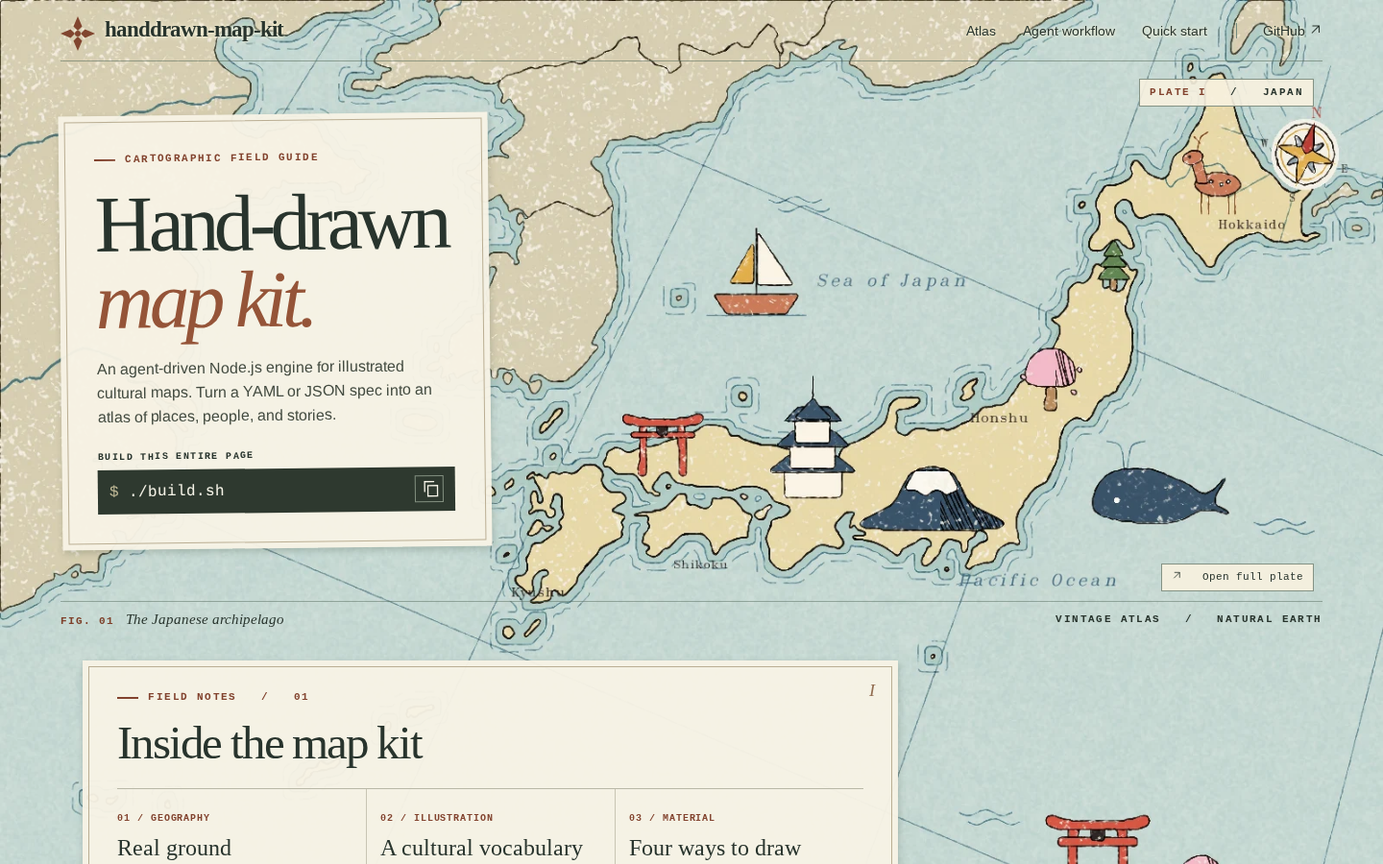
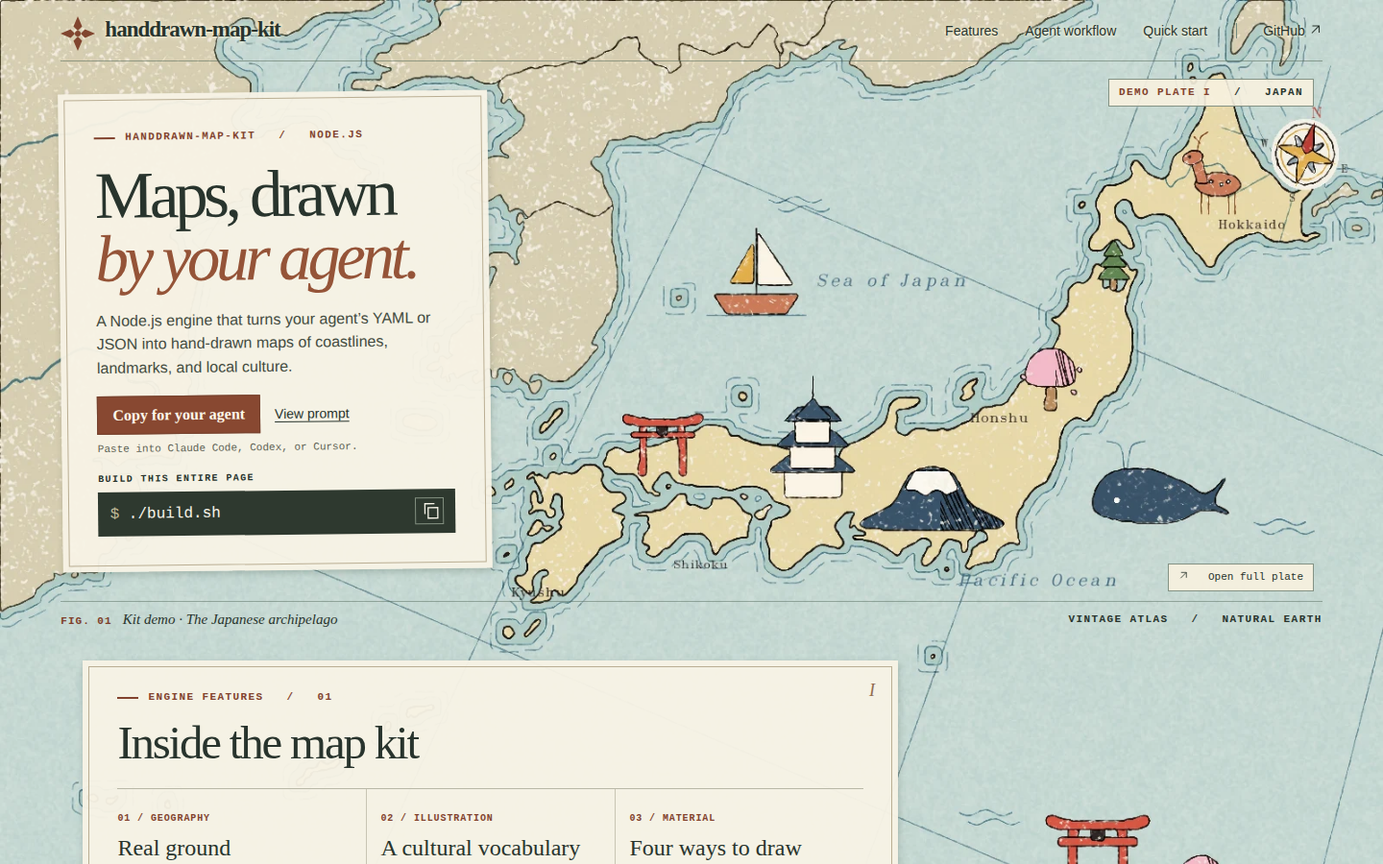
mapkit-official/codex-6.2: sell the kit, Copy for your agent prompt

diff --git a/sites/mapkit-official/codex-6.2/site/index.html b/sites/mapkit-official/codex-6.2/site/index.html
@@ -1,13 +1,18 @@
-<!doctype html><html lang="en"><head><meta charset="utf-8"><meta name="viewport" content="width=device-width,initial-scale=1"><title>Handdrawn Map Kit — An illustrated field atlas</title><link rel="stylesheet" href="fonts.css"><link rel="stylesheet" href="style.css"></head><body id="top"><div class="sheet">
-<header><a class="brand" href="#top"><b class="mark" aria-hidden="true"><svg class="icon " aria-hidden="true" viewBox="0 0 24 24"><path fill="currentColor" d="m12 0 3 7-3 3-3-3zm0 24-3-7 3-3 3 3zM0 12l7-3 3 3-3 3zm24 0-7 3-3-3 3-3z"/><circle cx="12" cy="12" r="2" fill="currentColor"/></svg></b> handdrawn-map-kit</a><nav><a href="#atlas">Atlas</a><a href="#workflow">Agent workflow</a><a href="#start">Quick start</a></nav><a class="git" href="https://github.com/wangreng/handdrawn-map-kit">GitHub <svg class="icon " aria-hidden="true" viewBox="0 0 24 24"><path d="M5 18 18 5M6 5h12v12" fill="none" stroke="currentColor" stroke-width="1.8"/></svg></a></header>
+<!doctype html><html lang="en"><head><meta charset="utf-8"><meta name="viewport" content="width=device-width,initial-scale=1"><title>handdrawn-map-kit — An agent-driven map engine</title><link rel="stylesheet" href="fonts.css"><link rel="stylesheet" href="style.css"></head><body id="top"><div class="sheet">
+<header><a class="brand" href="#top"><b class="mark" aria-hidden="true"><svg class="icon " aria-hidden="true" viewBox="0 0 24 24"><path fill="currentColor" d="m12 0 3 7-3 3-3-3zm0 24-3-7 3-3 3 3zM0 12l7-3 3 3-3 3zm24 0-7 3-3-3 3-3z"/><circle cx="12" cy="12" r="2" fill="currentColor"/></svg></b> handdrawn-map-kit</a><nav><a href="#atlas">Features</a><a href="#workflow">Agent workflow</a><a href="#start">Quick start</a></nav><a class="git" href="https://github.com/wangreng/handdrawn-map-kit">GitHub <svg class="icon " aria-hidden="true" viewBox="0 0 24 24"><path d="M5 18 18 5M6 5h12v12" fill="none" stroke="currentColor" stroke-width="1.8"/></svg></a></header>
 <main><section class="hero" aria-label="Introduction and illustrated map of Japan">
-<div class="plate"><span>PLATE I</span> &nbsp; / &nbsp; JAPAN</div>
-<article class="intro"><div class="eyebrow"><i></i> CARTOGRAPHIC FIELD GUIDE</div><h1>Hand-drawn<br><em>map kit.</em></h1>
-<p>An agent-driven Node.js engine for illustrated cultural maps. Turn a YAML or JSON spec into an atlas of places, people, and stories.</p>
-<div class="commandlabel">BUILD THIS ENTIRE PAGE</div><div class="terminal"><code><span aria-hidden="true">$ </span><b>./build.sh</b></code><button id="copy" aria-label="Copy build command" title="Copy command"><svg class="icon copy" aria-hidden="true" viewBox="0 0 24 24"><path d="M8 8h12v13H8zM4 16V3h12" fill="none" stroke="currentColor" stroke-width="1.6"/></svg><svg class="icon checked" aria-hidden="true" viewBox="0 0 24 24"><path d="m4 12 5 5L20 6" fill="none" stroke="currentColor" stroke-width="2"/></svg></button></div></article>
+<div class="plate"><span>DEMO PLATE I</span> &nbsp; / &nbsp; JAPAN</div>
+<article class="intro"><div class="eyebrow"><i></i> HANDDRAWN-MAP-KIT &nbsp; / &nbsp; NODE.JS</div><h1>Maps, drawn<br><em>by your agent.</em></h1>
+<p>A Node.js engine that turns your agent’s YAML or JSON into hand-drawn maps of coastlines, landmarks, and local culture.</p>
+<div class="agent-tools">
+<button id="copy-agent" type="button" data-copy="#agent-text">Copy for your agent</button>
+<button id="preview-agent" type="button">View prompt</button>
+<p>Paste into Claude Code, Codex, or Cursor.</p>
+</div>
+<div class="commandlabel">BUILD THIS ENTIRE PAGE</div><div class="terminal"><code><span aria-hidden="true">$ </span><b>./build.sh</b></code><button data-copy=".terminal b" id="copy" aria-label="Copy build command" title="Copy command"><svg class="icon copy" aria-hidden="true" viewBox="0 0 24 24"><path d="M8 8h12v13H8zM4 16V3h12" fill="none" stroke="currentColor" stroke-width="1.6"/></svg><svg class="icon checked" aria-hidden="true" viewBox="0 0 24 24"><path d="m4 12 5 5L20 6" fill="none" stroke="currentColor" stroke-width="2"/></svg></button></div></article>
 <a class="enlarge" href="japan.webp" target="_blank"><svg class="icon " aria-hidden="true" viewBox="0 0 24 24"><path d="M5 18 18 5M6 5h12v12" fill="none" stroke="currentColor" stroke-width="1.8"/></svg> &nbsp; Open full plate</a></section>
-<div class="caption"><span><b>FIG. 01</b> &nbsp; The Japanese archipelago</span><span>VINTAGE ATLAS &nbsp; / &nbsp; NATURAL EARTH</span></div>
-<section class="stop" id="atlas"><div class="paper"><div class="folio">I</div><div class="eyebrow"><i></i> FIELD NOTES &nbsp; / &nbsp; 01</div><h2>Inside the map kit</h2><div class="features">
+<div class="caption"><span><b>FIG. 01</b> &nbsp; Kit demo · The Japanese archipelago</span><span>VINTAGE ATLAS &nbsp; / &nbsp; NATURAL EARTH</span></div>
+<section class="stop" id="atlas"><div class="paper"><div class="folio">I</div><div class="eyebrow"><i></i> ENGINE FEATURES &nbsp; / &nbsp; 01</div><h2>Inside the map kit</h2><div class="features">
 <article><small>01 / GEOGRAPHY</small><h3>Real ground</h3><p>Build on Natural Earth coastlines, provinces, rivers, lakes, cities, and peaks. Reference places by name.</p></article>
 <article><small>02 / ILLUSTRATION</small><h3>A cultural vocabulary</h3><p>Place 65 built-in illustrations or draw a local landmark with inline SVG. Add bilingual labels and curved lettering.</p></article>
 <article><small>03 / MATERIAL</small><h3>Four ways to draw</h3><p>Render the same sheet as a vintage atlas, a cyanotype blueprint, a nocturne, or an ink-wash scroll.</p></article></div></div></section>
@@ -17,8 +22,65 @@ npx handdrawn-map inspect elements
 npx handdrawn-map render ../specs/japan.yaml &#92;
   --fast -o ../japan.png</code></pre></div></section>
 </main><footer><a class="brand" href="#top"><svg class="icon " aria-hidden="true" viewBox="0 0 24 24"><path fill="currentColor" d="m12 0 3 7-3 3-3-3zm0 24-3-7 3-3 3 3zM0 12l7-3 3 3-3 3zm24 0-7 3-3-3 3-3z"/><circle cx="12" cy="12" r="2" fill="currentColor"/></svg> &nbsp; handdrawn-map-kit</a><span>MIT LICENSE &nbsp; / &nbsp; NATURAL EARTH DATA</span></footer></div>
+<dialog id="agent-dialog" aria-labelledby="prompt-title"><div class="dialog-bar"><h2 id="prompt-title">Your first map</h2><button id="close-prompt" type="button">Close</button></div><pre id="agent-text">Draw me an illustrated map of Italy with handdrawn-map-kit.
+
+Run git clone https://github.com/wangreng/handdrawn-map-kit, then cd handdrawn-map-kit and run npm ci.
+
+Read SKILL.md. Create the parent directory and copy SKILL.md to the path for your agent:
+- Claude Code: ~/.claude/skills/handdrawn-map-kit/SKILL.md
+- Codex: ~/.agents/skills/handdrawn-map-kit/SKILL.md
+- Cursor: .cursor/skills/handdrawn-map-kit/SKILL.md in the active project
+
+From the cloned repo, run:
+node bin/cli.js render examples/specs/italy.yaml --fast --auto-layout -o out/italy.png --diagnostics out/italy.diag.json
+
+Show me the map and summarize any layout collisions or out-of-bounds items.
+</pre><button type="button" data-copy="#agent-text">Copy for your agent</button></dialog>
+<span id="copy-status" class="sr-only" role="status"></span>
 <script>const pocket = matchMedia('(max-width:700px)');
 function updatePlate() { document.querySelector('.enlarge').href = pocket.matches ? 'japan-pocket.webp' : 'japan.webp'; }
 updatePlate();
 pocket.addEventListener('change', updatePlate);
-document.querySelector('#copy').onclick=async function(){try{await navigator.clipboard.writeText('./build.sh');this.dataset.copied='';this.setAttribute('aria-label','Command copied');setTimeout(()=>{delete this.dataset.copied;this.setAttribute('aria-label','Copy build command')},1600)}catch{const r=document.createRange();r.selectNodeContents(document.querySelector('.terminal b'));getSelection().removeAllRanges();getSelection().addRange(r)}};</script></body></html>
+const dialog = document.querySelector('#agent-dialog');
+document.querySelector('#preview-agent').onclick = () => dialog.showModal();
+document.querySelector('#close-prompt').onclick = () => dialog.close();
+async function copyText(text) {
+  try {
+    await navigator.clipboard.writeText(text);
+    return true;
+  } catch {
+    const field = document.createElement('textarea');
+    field.value = text;
+    field.style.cssText = 'position:fixed;left:0;top:0;opacity:0';
+    (dialog.open ? dialog : document.body).append(field);
+    const previous = document.activeElement;
+    field.select();
+    const copied = document.execCommand('copy');
+    field.remove();
+    previous.focus();
+    return copied;
+  }
+}
+for (const button of document.querySelectorAll('[data-copy]')) {
+  button.onclick = async () => {
+    const text = document.querySelector(button.dataset.copy).textContent;
+    if (await copyText(text)) {
+      button.dataset.copied = '';
+      document.querySelector('#copy-status').textContent = button.id === 'copy' ? 'Build command copied.' : 'Agent prompt copied.';
+      if (button.id !== 'copy') button.textContent = 'Prompt copied';
+      clearTimeout(button.resetTimer);
+      button.resetTimer = setTimeout(() => {
+        delete button.dataset.copied;
+        if (button.id !== 'copy') button.textContent = 'Copy for your agent';
+      }, 1800);
+    } else {
+      if (button.id !== 'copy' && !dialog.open) dialog.showModal();
+      const range = document.createRange();
+      range.selectNodeContents(document.querySelector(button.dataset.copy));
+      getSelection().removeAllRanges();
+      getSelection().addRange(range);
+      document.querySelector('#copy-status').textContent = 'Text selected for manual copying.';
+    }
+  };
+}
+</script></body></html>

diff --git a/sites/mapkit-official/codex-6.2/src/index.html b/sites/mapkit-official/codex-6.2/src/index.html
@@ -1,13 +1,18 @@
-<!doctype html><html lang="en"><head><meta charset="utf-8"><meta name="viewport" content="width=device-width,initial-scale=1"><title>Handdrawn Map Kit — An illustrated field atlas</title><link rel="stylesheet" href="fonts.css"><link rel="stylesheet" href="style.css"></head><body id="top"><div class="sheet">
-<header><a class="brand" href="#top"><b class="mark" aria-hidden="true"><svg class="icon " aria-hidden="true" viewBox="0 0 24 24"><path fill="currentColor" d="m12 0 3 7-3 3-3-3zm0 24-3-7 3-3 3 3zM0 12l7-3 3 3-3 3zm24 0-7 3-3-3 3-3z"/><circle cx="12" cy="12" r="2" fill="currentColor"/></svg></b> handdrawn-map-kit</a><nav><a href="#atlas">Atlas</a><a href="#workflow">Agent workflow</a><a href="#start">Quick start</a></nav><a class="git" href="https://github.com/wangreng/handdrawn-map-kit">GitHub <svg class="icon " aria-hidden="true" viewBox="0 0 24 24"><path d="M5 18 18 5M6 5h12v12" fill="none" stroke="currentColor" stroke-width="1.8"/></svg></a></header>
+<!doctype html><html lang="en"><head><meta charset="utf-8"><meta name="viewport" content="width=device-width,initial-scale=1"><title>handdrawn-map-kit — An agent-driven map engine</title><link rel="stylesheet" href="fonts.css"><link rel="stylesheet" href="style.css"></head><body id="top"><div class="sheet">
+<header><a class="brand" href="#top"><b class="mark" aria-hidden="true"><svg class="icon " aria-hidden="true" viewBox="0 0 24 24"><path fill="currentColor" d="m12 0 3 7-3 3-3-3zm0 24-3-7 3-3 3 3zM0 12l7-3 3 3-3 3zm24 0-7 3-3-3 3-3z"/><circle cx="12" cy="12" r="2" fill="currentColor"/></svg></b> handdrawn-map-kit</a><nav><a href="#atlas">Features</a><a href="#workflow">Agent workflow</a><a href="#start">Quick start</a></nav><a class="git" href="https://github.com/wangreng/handdrawn-map-kit">GitHub <svg class="icon " aria-hidden="true" viewBox="0 0 24 24"><path d="M5 18 18 5M6 5h12v12" fill="none" stroke="currentColor" stroke-width="1.8"/></svg></a></header>
 <main><section class="hero" aria-label="Introduction and illustrated map of Japan">
-<div class="plate"><span>PLATE I</span> &nbsp; / &nbsp; JAPAN</div>
-<article class="intro"><div class="eyebrow"><i></i> CARTOGRAPHIC FIELD GUIDE</div><h1>Hand-drawn<br><em>map kit.</em></h1>
-<p>An agent-driven Node.js engine for illustrated cultural maps. Turn a YAML or JSON spec into an atlas of places, people, and stories.</p>
-<div class="commandlabel">BUILD THIS ENTIRE PAGE</div><div class="terminal"><code><span aria-hidden="true">$ </span><b>./build.sh</b></code><button id="copy" aria-label="Copy build command" title="Copy command"><svg class="icon copy" aria-hidden="true" viewBox="0 0 24 24"><path d="M8 8h12v13H8zM4 16V3h12" fill="none" stroke="currentColor" stroke-width="1.6"/></svg><svg class="icon checked" aria-hidden="true" viewBox="0 0 24 24"><path d="m4 12 5 5L20 6" fill="none" stroke="currentColor" stroke-width="2"/></svg></button></div></article>
+<div class="plate"><span>DEMO PLATE I</span> &nbsp; / &nbsp; JAPAN</div>
+<article class="intro"><div class="eyebrow"><i></i> HANDDRAWN-MAP-KIT &nbsp; / &nbsp; NODE.JS</div><h1>Maps, drawn<br><em>by your agent.</em></h1>
+<p>A Node.js engine that turns your agent’s YAML or JSON into hand-drawn maps of coastlines, landmarks, and local culture.</p>
+<div class="agent-tools">
+<button id="copy-agent" type="button" data-copy="#agent-text">Copy for your agent</button>
+<button id="preview-agent" type="button">View prompt</button>
+<p>Paste into Claude Code, Codex, or Cursor.</p>
+</div>
+<div class="commandlabel">BUILD THIS ENTIRE PAGE</div><div class="terminal"><code><span aria-hidden="true">$ </span><b>./build.sh</b></code><button data-copy=".terminal b" id="copy" aria-label="Copy build command" title="Copy command"><svg class="icon copy" aria-hidden="true" viewBox="0 0 24 24"><path d="M8 8h12v13H8zM4 16V3h12" fill="none" stroke="currentColor" stroke-width="1.6"/></svg><svg class="icon checked" aria-hidden="true" viewBox="0 0 24 24"><path d="m4 12 5 5L20 6" fill="none" stroke="currentColor" stroke-width="2"/></svg></button></div></article>
 <a class="enlarge" href="japan.webp" target="_blank"><svg class="icon " aria-hidden="true" viewBox="0 0 24 24"><path d="M5 18 18 5M6 5h12v12" fill="none" stroke="currentColor" stroke-width="1.8"/></svg> &nbsp; Open full plate</a></section>
-<div class="caption"><span><b>FIG. 01</b> &nbsp; The Japanese archipelago</span><span>VINTAGE ATLAS &nbsp; / &nbsp; NATURAL EARTH</span></div>
-<section class="stop" id="atlas"><div class="paper"><div class="folio">I</div><div class="eyebrow"><i></i> FIELD NOTES &nbsp; / &nbsp; 01</div><h2>Inside the map kit</h2><div class="features">
+<div class="caption"><span><b>FIG. 01</b> &nbsp; Kit demo · The Japanese archipelago</span><span>VINTAGE ATLAS &nbsp; / &nbsp; NATURAL EARTH</span></div>
+<section class="stop" id="atlas"><div class="paper"><div class="folio">I</div><div class="eyebrow"><i></i> ENGINE FEATURES &nbsp; / &nbsp; 01</div><h2>Inside the map kit</h2><div class="features">
 <article><small>01 / GEOGRAPHY</small><h3>Real ground</h3><p>Build on Natural Earth coastlines, provinces, rivers, lakes, cities, and peaks. Reference places by name.</p></article>
 <article><small>02 / ILLUSTRATION</small><h3>A cultural vocabulary</h3><p>Place 65 built-in illustrations or draw a local landmark with inline SVG. Add bilingual labels and curved lettering.</p></article>
 <article><small>03 / MATERIAL</small><h3>Four ways to draw</h3><p>Render the same sheet as a vintage atlas, a cyanotype blueprint, a nocturne, or an ink-wash scroll.</p></article></div></div></section>
@@ -17,8 +22,52 @@ npx handdrawn-map inspect elements
 npx handdrawn-map render ../specs/japan.yaml &#92;
   --fast -o ../japan.png</code></pre></div></section>
 </main><footer><a class="brand" href="#top"><svg class="icon " aria-hidden="true" viewBox="0 0 24 24"><path fill="currentColor" d="m12 0 3 7-3 3-3-3zm0 24-3-7 3-3 3 3zM0 12l7-3 3 3-3 3zm24 0-7 3-3-3 3-3z"/><circle cx="12" cy="12" r="2" fill="currentColor"/></svg> &nbsp; handdrawn-map-kit</a><span>MIT LICENSE &nbsp; / &nbsp; NATURAL EARTH DATA</span></footer></div>
+<dialog id="agent-dialog" aria-labelledby="prompt-title"><div class="dialog-bar"><h2 id="prompt-title">Your first map</h2><button id="close-prompt" type="button">Close</button></div><pre id="agent-text">{{AGENT_PROMPT}}</pre><button type="button" data-copy="#agent-text">Copy for your agent</button></dialog>
+<span id="copy-status" class="sr-only" role="status"></span>
 <script>const pocket = matchMedia('(max-width:700px)');
 function updatePlate() { document.querySelector('.enlarge').href = pocket.matches ? 'japan-pocket.webp' : 'japan.webp'; }
 updatePlate();
 pocket.addEventListener('change', updatePlate);
-document.querySelector('#copy').onclick=async function(){try{await navigator.clipboard.writeText('./build.sh');this.dataset.copied='';this.setAttribute('aria-label','Command copied');setTimeout(()=>{delete this.dataset.copied;this.setAttribute('aria-label','Copy build command')},1600)}catch{const r=document.createRange();r.selectNodeContents(document.querySelector('.terminal b'));getSelection().removeAllRanges();getSelection().addRange(r)}};</script></body></html>
+const dialog = document.querySelector('#agent-dialog');
+document.querySelector('#preview-agent').onclick = () => dialog.showModal();
+document.querySelector('#close-prompt').onclick = () => dialog.close();
+async function copyText(text) {
+  try {
+    await navigator.clipboard.writeText(text);
+    return true;
+  } catch {
+    const field = document.createElement('textarea');
+    field.value = text;
+    field.style.cssText = 'position:fixed;left:0;top:0;opacity:0';
+    (dialog.open ? dialog : document.body).append(field);
+    const previous = document.activeElement;
+    field.select();
+    const copied = document.execCommand('copy');
+    field.remove();
+    previous.focus();
+    return copied;
+  }
+}
+for (const button of document.querySelectorAll('[data-copy]')) {
+  button.onclick = async () => {
+    const text = document.querySelector(button.dataset.copy).textContent;
+    if (await copyText(text)) {
+      button.dataset.copied = '';
+      document.querySelector('#copy-status').textContent = button.id === 'copy' ? 'Build command copied.' : 'Agent prompt copied.';
+      if (button.id !== 'copy') button.textContent = 'Prompt copied';
+      clearTimeout(button.resetTimer);
+      button.resetTimer = setTimeout(() => {
+        delete button.dataset.copied;
+        if (button.id !== 'copy') button.textContent = 'Copy for your agent';
+      }, 1800);
+    } else {
+      if (button.id !== 'copy' && !dialog.open) dialog.showModal();
+      const range = document.createRange();
+      range.selectNodeContents(document.querySelector(button.dataset.copy));
+      getSelection().removeAllRanges();
+      getSelection().addRange(range);
+      document.querySelector('#copy-status').textContent = 'Text selected for manual copying.';
+    }
+  };
+}
+</script></body></html>

diff --git a/sites/mapkit-official/codex-6.2/site/style.css b/sites/mapkit-official/codex-6.2/site/style.css
@@ -59,3 +59,25 @@ button {font-family:inherit}
   .intro .terminal{gap:8px}
   #copy{flex:none}
 }
+.intro h1{font-size:clamp(54px,4.8vw,83px)}
+.hero{height:auto;min-height:max(545px,39vw);padding-block:24px}
+.agent-tools{margin-top:16px;display:flex;align-items:center;flex-wrap:wrap;gap:8px 15px}
+button{cursor:pointer}
+[data-copy="#agent-text"]{background:#884831;color:#fff9ea;padding:10px 15px;border:1px solid #74422e;font:bold 16px/1.15 'Atlas Serif'}
+[data-copy="#agent-text"]:hover{background:#703c2b}
+#preview-agent,#close-prompt{background:none;color:inherit;border:0;text-decoration:underline;text-underline-offset:3px;padding:4px 0;font:14px 'Atlas Sans'}
+.agent-tools p{width:100%;font:11px/1.4 'Atlas Mono';color:#5d6254}
+.commandlabel{margin-top:15px}
+#agent-dialog{width:min(590px,92%);max-height:86vh;padding:24px;background:#f7f2e5;color:#28342d;border:1px solid #877961}
+#agent-dialog::backdrop{background:#192b26a8}
+.dialog-bar{display:flex;align-items:center;justify-content:space-between;gap:16px}
+.dialog-bar h2{font:normal 32px 'Atlas Serif';margin:0}
+#agent-text{white-space:pre-wrap;overflow-wrap:anywhere;background:transparent;color:inherit;padding:16px 0;border-block:1px solid #c5bda8;margin:16px 0;font:14px/1.5 'Atlas Mono'}
+.sr-only{position:absolute;width:1px;height:1px;overflow:hidden;clip-path:inset(50%)}
+@media(max-width:700px){
+  .hero{height:auto;min-height:0;padding:calc(var(--map-height) - 82px) 0 5px}
+  .intro h1{font-size:clamp(39px,12vw,57px)}
+  .agent-tools{gap:6px 11px;margin-top:12px}
+  .agent-tools p{font:10px/1.3 'Atlas Mono'}
+  .sheet{--map-height:clamp(300px,86vw,410px)}
+}

diff --git a/sites/mapkit-official/codex-6.2/src/style.css b/sites/mapkit-official/codex-6.2/src/style.css
@@ -59,3 +59,25 @@ button {font-family:inherit}
   .intro .terminal{gap:8px}
   #copy{flex:none}
 }
+.intro h1{font-size:clamp(54px,4.8vw,83px)}
+.hero{height:auto;min-height:max(545px,39vw);padding-block:24px}
+.agent-tools{margin-top:16px;display:flex;align-items:center;flex-wrap:wrap;gap:8px 15px}
+button{cursor:pointer}
+[data-copy="#agent-text"]{background:#884831;color:#fff9ea;padding:10px 15px;border:1px solid #74422e;font:bold 16px/1.15 'Atlas Serif'}
+[data-copy="#agent-text"]:hover{background:#703c2b}
+#preview-agent,#close-prompt{background:none;color:inherit;border:0;text-decoration:underline;text-underline-offset:3px;padding:4px 0;font:14px 'Atlas Sans'}
+.agent-tools p{width:100%;font:11px/1.4 'Atlas Mono';color:#5d6254}
+.commandlabel{margin-top:15px}
+#agent-dialog{width:min(590px,92%);max-height:86vh;padding:24px;background:#f7f2e5;color:#28342d;border:1px solid #877961}
+#agent-dialog::backdrop{background:#192b26a8}
+.dialog-bar{display:flex;align-items:center;justify-content:space-between;gap:16px}
+.dialog-bar h2{font:normal 32px 'Atlas Serif';margin:0}
+#agent-text{white-space:pre-wrap;overflow-wrap:anywhere;background:transparent;color:inherit;padding:16px 0;border-block:1px solid #c5bda8;margin:16px 0;font:14px/1.5 'Atlas Mono'}
+.sr-only{position:absolute;width:1px;height:1px;overflow:hidden;clip-path:inset(50%)}
+@media(max-width:700px){
+  .hero{height:auto;min-height:0;padding:calc(var(--map-height) - 82px) 0 5px}
+  .intro h1{font-size:clamp(39px,12vw,57px)}
+  .agent-tools{gap:6px 11px;margin-top:12px}
+  .agent-tools p{font:10px/1.3 'Atlas Mono'}
+  .sheet{--map-height:clamp(300px,86vw,410px)}
+}

diff --git a/sites/mapkit-official/codex-6.2/NOTES.md b/sites/mapkit-official/codex-6.2/NOTES.md
@@ -1,8 +1,9 @@
-# Handdrawn Map Kit — Japan field guide
+# handdrawn-map-kit — illustrated map engine
 
-The page is a single long atlas sheet. Japan’s Natural Earth coastline and cultural illustrations sit beside the title and the command that regenerates the site.  
-Three paper notes carry the feature overview, agent workflow, and quick start. A shrine gate, survey vessel, and coastal light mark their positions.  
-The pocket edition opens with a framed map of Japan, a flag cartouche, and a compass rose. The title and build command sit on an illustrated parchment island below the archipelago, all within the first 390 × 844 viewport.
+The engine introduces itself on a continuous atlas sheet, with Japan as its demonstration plate.  
+The hero offers a prompt to draw a first map of Italy and a separate command to regenerate this site.  
+Three paper notes explain the engine’s features, the agent authoring loop, and CLI usage.  
+The pocket edition places both actions on a parchment island beneath the map, flag cartouche, and compass.
 
 ## Artwork and implementation
 
@@ -36,3 +37,15 @@ The mobile hero uses normal-flow grid rows for the introduction and plate link. 
 Reviewed first-screen and full-page Chrome screenshots at 1440 × 900 and 390 × 844 across multiple passes, including the final rebuild. The final browser used an isolated Fontconfig configuration exposing only an unrelated kit font, with all host font directories excluded. Chrome reported all six WOFF2 faces loaded and only the bundled Liberation webfonts used for rendered page text. An earlier run with a completely empty font database produced unreliable Chrome text rendering, so the final check measures actual glyph usage with a working browser font backend.
 
 Deleted both rendered maps, the output WOFF2 files, and the generated font stylesheet. Rebuilt with `./build.sh` and only Node.js on PATH. SHA-256 hashes matched for all 14 site files and all four recaptured screenshots.
+
+## Iteration 3 — agent onboarding
+
+“Copy for your agent” copies the complete contents of `AGENT-PROMPT.md`, including the final newline. “View prompt” opens a keyboard-accessible dialog containing the same text. The build uses that file as the single source for both actions.
+
+The prompt uses the repo’s root `SKILL.md` and the name from its YAML frontmatter. Claude Code and Codex use their documented personal skill directories. Cursor uses its project skill directory in the active workspace. See [Claude Code skill locations](https://code.claude.com/docs/en/skills), [Codex local skill locations](https://developers.openai.com/codex/skills), and [Cursor skill directories](https://cursor.com/docs/skills).
+
+Checked the Italy YAML path and render flags against the bundled README and SKILL.md. Verified the package’s CLI entry point in package.json. A fresh clone of the prompt’s URL at commit `4581c0e3565ae233bb81d720bb4a0c467425a664` completed `npm ci` and the exact first-map command. It produced out/italy.png and out/italy.diag.json with 16 layout items, zero overlaps, and zero out-of-bounds items. Skill locations were verified from the agent docs without changing personal agent settings.
+
+Reviewed three screenshot passes in headless Chrome, each with first-screen and full-page captures at 1440 × 900 and 390 × 844. The hero copy button was visible at both widths. At each size, clipboard readback from the hero and dialog matched AGENT-PROMPT.md byte for byte, and the build button copied exactly `./build.sh`.
+
+Deleted both generated WebPs and ran `./build.sh` with only Node.js on PATH. All 14 site files and the four recaptured screenshots matched their pre-deletion SHA-256 hashes.

diff --git a/sites/mapkit-official/codex-6.2/BRIEF.md b/sites/mapkit-official/codex-6.2/BRIEF.md
@@ -27,3 +27,8 @@ The hero demo is ONE command that generates this very site. Provide a real scrip
 - The one-command build must work on a clean machine with only Node.js and the kit installed (no ImageMagick or other tools).
 
 - Mobile 390: the FIRST SCREEN must already read as a map: kit cartouche, compass and border visible, and the section content sitting on a kit-drawn parchment island with small kit objects around it. Not a plain text hero with the map pushed below the fold.
+
+## Iteration 3 (owner)
+1. Positioning: the selling point is handdrawn-map-kit itself (an agent-driven hand-drawn map engine), not a Japan field guide. The Japan map stays only as a demo plate. Headline, copy and labels sell the kit.
+2. Add a prominent Copy for your agent block, high on the page (hero or right below) on desktop and 390, with a one-click copy button. Content: a short paste-ready prompt for Claude Code / Codex / Cursor that clones https://github.com/wangreng/handdrawn-map-kit, runs npm ci, installs SKILL.md as a skill (Claude Code: ~/.claude/skills/handdrawn-map-kit/SKILL.md; Codex: ~/.agents/skills/handdrawn-map-kit/SKILL.md; Cursor: read SKILL.md as project rules or verify the right place) and then renders a first map with --diagnostics. Verify every path and command against the kit SKILL.md/README and the agents docs; keep it short and accurate. Optional second variant: start directly with draw me a map of X.
+Keep everything else (continuous map, hero strength, mobile map-first, bundled fonts, Node-only build).

diff --git a/sites/mapkit-official/codex-6.2/AGENT-PROMPT.md b/sites/mapkit-official/codex-6.2/AGENT-PROMPT.md
@@ -1,0 +1,13 @@
+Draw me an illustrated map of Italy with handdrawn-map-kit.
+
+Run git clone https://github.com/wangreng/handdrawn-map-kit, then cd handdrawn-map-kit and run npm ci.
+
+Read SKILL.md. Create the parent directory and copy SKILL.md to the path for your agent:
+- Claude Code: ~/.claude/skills/handdrawn-map-kit/SKILL.md
+- Codex: ~/.agents/skills/handdrawn-map-kit/SKILL.md
+- Cursor: .cursor/skills/handdrawn-map-kit/SKILL.md in the active project
+
+From the cloned repo, run:
+node bin/cli.js render examples/specs/italy.yaml --fast --auto-layout -o out/italy.png --diagnostics out/italy.diag.json
+
+Show me the map and summarize any layout collisions or out-of-bounds items.
